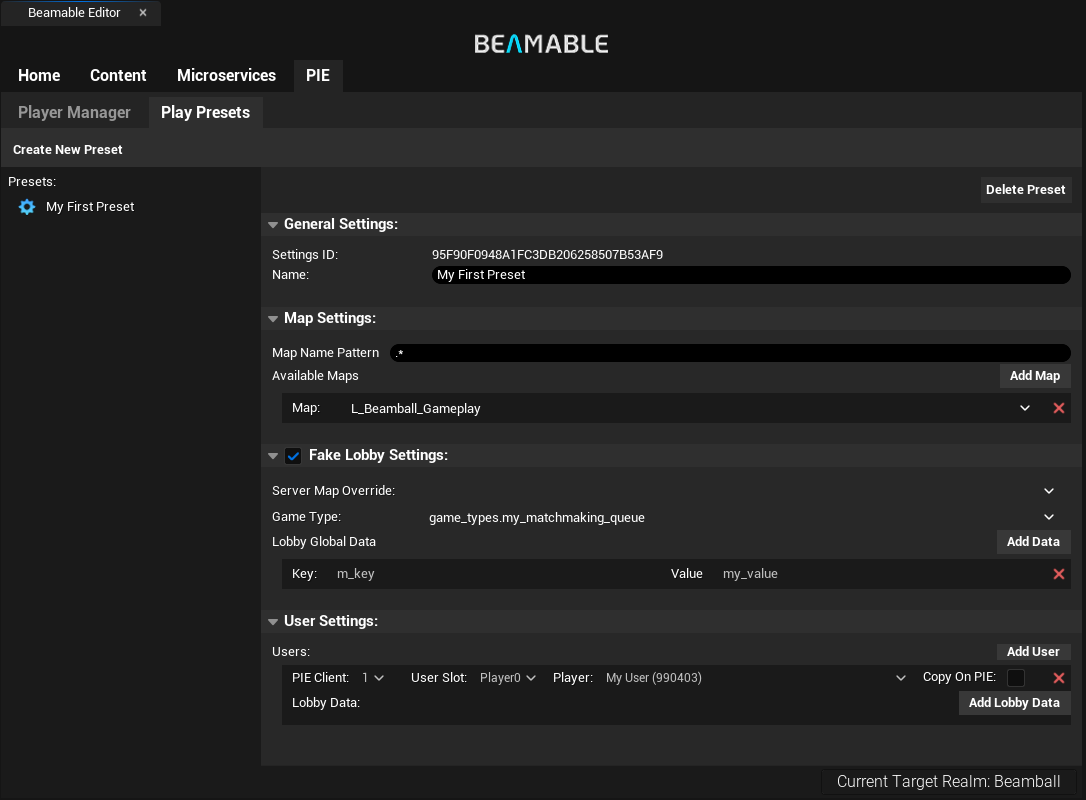
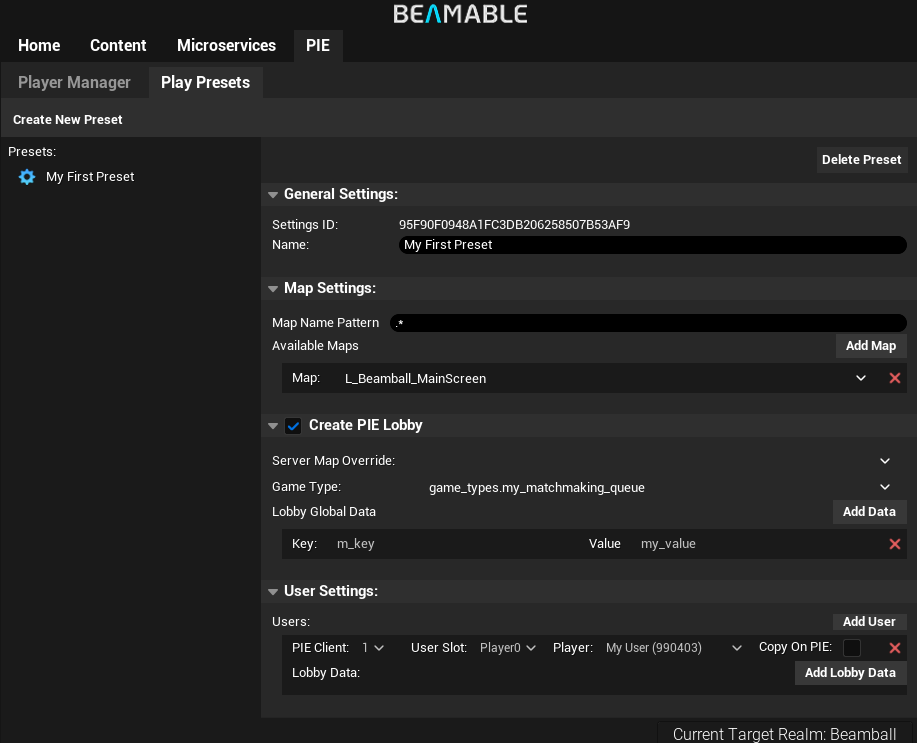
Change "Fake Lobby" to "PIE Lobby"

diff --git a/docs/unreal/user-reference/federation/federated-game-server.md b/docs/unreal/user-reference/federation/federated-game-server.md
@@ -11,7 +11,7 @@ There are 3 [Federation Calls](federation.md#federation-calls) to this function:
 
 - **Matchmaking Match Found**: This is an **Out-of-Band Call** where the Beamable Backend will call the **CreateGameServer** function for each match produced by its matchmaking tick. To have your locally microservice process these requests, you need to configure a content type as a filter for the traffic (see [Federation tab of the Microservice](federation.md#workflows-for-developing-federations)). 
 - **Provision Game Server for Lobby**: This is an In-Band call where [Lobby's Host Player](../beamable-services/lobbies.md) asks Beamable to provision a Game Server for their Lobby. 
-- **Beam PIE's Fake Lobby**: This is an In-Band call made by [Beam PIE's Fake Lobby setup](../editor-systems/pie-settings.md). You can read more about this in our [Real Time Multiplayer Guides](../realtime-multiplayer/realtime-multiplayer-overview.md).
+- **Beam PIE's PIE Lobby**: This is an In-Band call made by [Beam PIE's PIE Lobby setup](../editor-systems/pie-settings.md). You can read more about this in our [Real Time Multiplayer Guides](../realtime-multiplayer/realtime-multiplayer-overview.md).
 
 ## Configuring a Game Server Federation to be Called
 Beamable's Backend leverages a Content called `UBeamGameTypeContent` (`game_types`). A GameType is essentially a set of rules for how Beamable's Matchmaking should produce matches of this game type (including the federation).
@@ -39,7 +39,7 @@ public async Promise<ServerInfo> CreateGameServer(Api.Autogenerated.Models.Lobby
         {            
             var connInfo = new ServerInfo();
             
-            // IF the lobby is NOT a fake lobby from PIE/Playmode, you should be provisioning a server.
+            // IF the lobby is NOT a PIE lobby from PIE/Playmode, you should be provisioning a server.
             // Lobbies that are created via BeamPIE are flagged as such so you can avoid asking your Orchestrator for a server.
             if (!l.IsLobbyFromEditorPlayMode())
             {
@@ -70,7 +70,7 @@ public async Promise<ServerInfo> CreateGameServer(Api.Autogenerated.Models.Lobby
 You can check out our [Beamball Demo](../../samples/beamball/beamball-demo.md) for more information on how to leverage this `CreateGameServer` function.
 
 ## Developing with your Local Microservice and PIE
-For the In-Band calls (**Provision Game Server for Lobby** and **BeamPIE's Fake Lobby**), as long as your local microservice is running, your PIE clients will invoke it and that's that.
+For the In-Band calls (**Provision Game Server for Lobby** and **BeamPIE's PIE Lobby**), as long as your local microservice is running, your PIE clients will invoke it and that's that.
 
 When testing this from the actual matchmaking queue (as opposed to using BeamPIE to start the gameplay level directly), you'll need to set a content-based filter for which queues you want your locally running microservice to handle when it's running.
 

diff --git a/docs/unreal/user-reference/editor-systems/pie-settings.md b/docs/unreal/user-reference/editor-systems/pie-settings.md
@@ -55,14 +55,14 @@ Play Presets can be configured to apply to specific maps or a list of maps which
 Play Presets can be configured to initialize lobbies for PIE, allowing you to test multiplayer scenarios with real Beamable accounts **_directly in PIE from the Gameplay Level_**. This is especially useful when testing games that use the **Gameplay Level** as the entry point, since it ensures the initialization of Beamable systems and lobby setup. Normally, this initialization would occur in earlier Levels, such as the **Main Boot Level** (Main Menu/Title Screen/etc...).  
 
 !!! warning "Integration with Beamable Realtime Multiplayer Systems"
-    Play Presets' Fake Lobby feature is tightly integrated with the Beamable Runtime Multiplayer Systems, having some requirements in your scenes to work properly. For more information, check the [Realtime Multiplayer Overview](../realtime-multiplayer/realtime-multiplayer-overview.md) page.
+    Play Presets' PIE Lobby feature is tightly integrated with the Beamable Runtime Multiplayer Systems, having some requirements in your scenes to work properly. For more information, check the [Realtime Multiplayer Overview](../realtime-multiplayer/realtime-multiplayer-overview.md) page.
 
-In the Fake Lobby Settings you can configure:
+In the PIE Lobby Settings you can configure:
 
-- **Enable/Disable**: The Checkbox in the header enables or disables the fake lobby simulation for this preset.
-- **Server Map Override**: The map that will be used as the server map for the fake lobby. This overrides the default server map defined in the Unreal Project Settings.
-- **Game Type**: The Game Type content that will be used for the fake lobby Scene. If there is a federation configured here, the federation does run too.
-- **Lobby Global Data**: Custom Global Key-Value pairs that will be used to initialize the fake lobby. This data is available in the Gameplay Scene and can be used to simulate different scenarios.
+- **Enable/Disable**: The Checkbox in the header enables or disables the PIE Lobby simulation for this preset.
+- **Server Map Override**: The map that will be used as the server map for the PIE Lobby. This overrides the default server map defined in the Unreal Project Settings.
+- **Game Type**: The Game Type content that will be used for the PIE Lobby Scene. If there is a federation configured here, the federation does run too.
+- **Lobby Global Data**: Custom Global Key-Value pairs that will be used to initialize the PIE Lobby. This data is available in the Gameplay Scene and can be used to simulate different scenarios.
 
 ![pie-fake-lobby.png](../../../media/imgs/pie-fake-lobby.png)
 

diff --git a/docs/unreal/user-reference/realtime-multiplayer/realtime-multiplayer-overview.md b/docs/unreal/user-reference/realtime-multiplayer/realtime-multiplayer-overview.md
@@ -47,7 +47,7 @@ This guide explains how to leverage our SDK's **[PIE Support](../editor-systems/
 6. Use the **Play Presets** window to create a `My First Preset`.
    1. In **Map Settings**:
       1. Choose your Gameplay Level from the dropdown of Allowed Maps. This will make this preset available for use when you have this map open in the editor.
-   2. Toggle the **Fake Lobby Settings** on.
+   2. Toggle the **PIE Lobby Settings** on.
       1. Choose the `my_matchmaking_queue` game type from the dropdown.
       2. Add a `my_key` and `my_value` to the Global Lobby Data.  
    3. In **User Settings**:
@@ -61,7 +61,7 @@ Now that you have a preset, you can set up your Gameplay Level to use it:
 
 ![multiplayer-dropdown.png](../../../media/imgs/multiplayer-dropdown.png)
 
-3. Change Unreal's Playmode settings to be: **Play as Client** and **Number of Players = 1** (to match the number of users in the Fake Lobby).
+3. Change Unreal's Playmode settings to be: **Play as Client** and **Number of Players = 1** (to match the number of users in the PIE Lobby).
 
 ![multiplayer-clientcount.png](../../../media/imgs/multiplayer-clientcount.png)
 

diff --git a/docs/unreal/samples/beamball/beamball-demo.md b/docs/unreal/samples/beamball/beamball-demo.md
@@ -58,7 +58,7 @@ Leveraging the new Beamable PIE Settings, you can run the sample in editor throu
    6. Create a new Play Preset with the following settings:
       7. Name: `Beamball Gameplay`
       8. Available Maps: Add `L_Beamball_Gameplay` to the list.
-      10. Enable Fake Lobby: Enabled
+      10. Enable PIE Lobby: Enabled
       12. Game Type: `game_types.default`
       13. Add both `Player1` and `Player2` to the preset.
 6. Select the `Beamball Gameplay` Play Preset in the main toolbar.

diff --git a/docs/unreal/whatsnew/2.2.md b/docs/unreal/whatsnew/2.2.md
@@ -2,3 +2,7 @@
 This is the release notes for the Unreal SDK version 2.2.0.
 
 ## Highlights
+
+## Other Changes
+- "Fake Lobby" now is called "PIE Lobby" in the UI.
+- Ignore Temporary Maps in the List of Available Maps and Server Override Map of the Play Preset.
